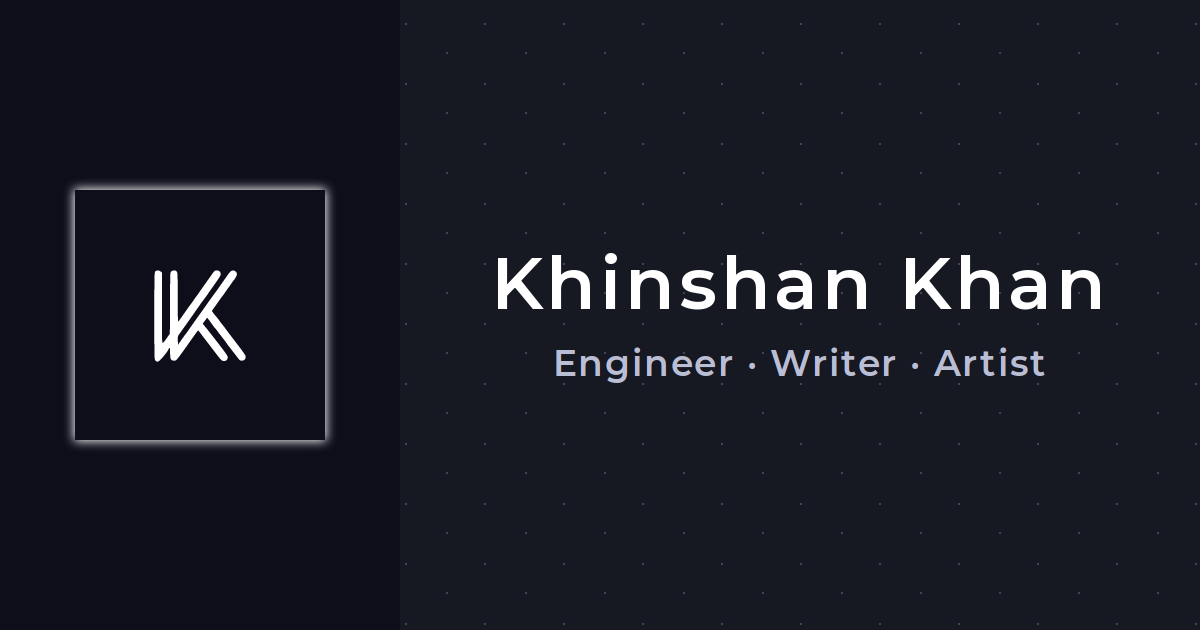
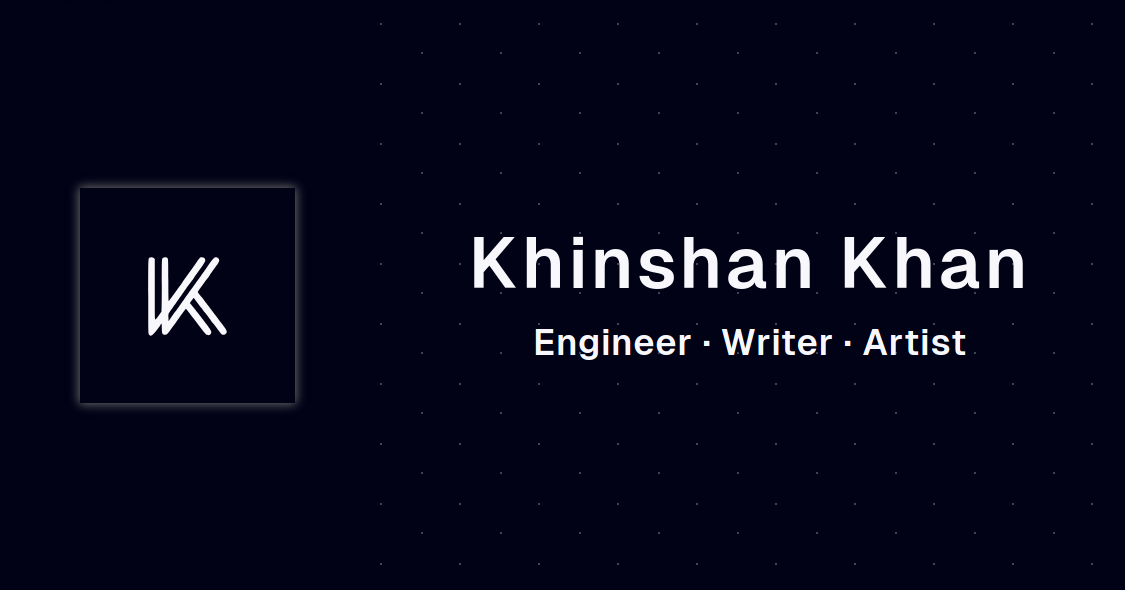
new og image

diff --git a/settings.tsx b/settings.tsx
@@ -33,7 +33,7 @@ export const defaultMetadata = {
     type: "website",
     images: [
       {
-        url: "https://www.khinshankhan.com/og.png?v=4",
+        url: "https://www.khinshankhan.com/og.png?v=5",
         width: 1200,
         height: 630,
       },
